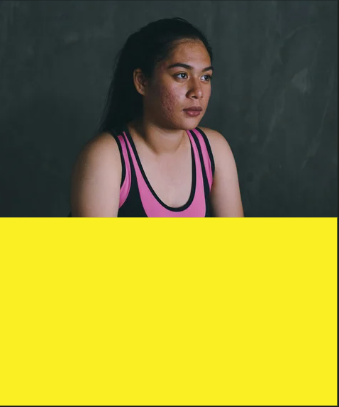
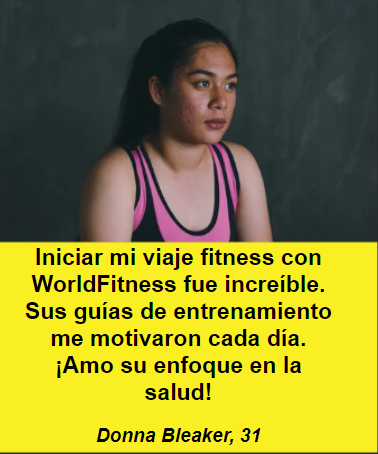
.

diff --git a/index.html b/index.html
@@ -179,14 +179,6 @@
                         <img src="/WorldFitness-Page/assets/img/persona1.PNG" alt="Imagen de Portada" class="img8">
                     </div>
                     
-                     <!-- Textos a la Izquierda -->
-                     <div class="textos-centrados3">
-                        <!-- Titulos -->
-                        <h2 class="pi3">Iniciar mi viaje fitness con WorldFitness fue increíble. Sus guías de entrenamiento me motivaron cada día. ¡Amo su enfoque en la salud!</h2>
-
-                        <h3 class="aut">Donna Bleaker, 31</h3>
-                    
-                    </div>
                    
                     
                     <!-- Imágenes Superpuestas a la Derecha -->
@@ -194,15 +186,6 @@
                         
                         <!-- Imagen 2 -->
                         <img src="/WorldFitness-Page/assets/img/persona2.PNG" alt="Imagen de Portada" class="img9">
-                    </div>
-    
-                     <!-- Textos a la Izquierda -->
-                     <div class="textos-centrados4">
-                        <!-- Titulos -->
-                        <h2 class="pi3">WorldFitness cambió mi perspectiva sobre la alimentación. Sus guías me enseñaron a disfrutar de la comida y mantenerme saludable. ¡Gracias por este cambio positivo!</h2>
-
-                        <h3 class="aut">Lauren Cross, 28</h3>
-                    
                     </div>
 
                     
@@ -212,19 +195,10 @@
                         <!-- Imagen 2 -->
                         <img src="/WorldFitness-Page/assets/img/persona3.PNG" alt="Imagen de Portada" class="img10">
                     </div>
-                    
-                    <!-- Textos a la Izquierda -->
-                    <div class="textos-centrados5">
-                        <!-- Titulos -->
-                        <h2 class="pi3">Soy un apasionado del fitness y WorldFitness ha elevado mi entrenamiento a un nuevo nivel. Sus recursos y tienda son imprescindibles. ¡Una experiencia excepcional!</h2>
-
-                        <h3 class="aut">Thomas Xue, 24</h3>
-                    
-                    </div>
+                
                     
     
                 </div>
-
 
 
           <div class="contenedor5">

diff --git a/assets/css/styles.css b/assets/css/styles.css
@@ -287,47 +287,17 @@ height: 150%;
     display: block;
     position: absolute;
     text-align: center;
-    top: 12%;
+    top: 15%;
     left: 50%;
     transform: translate(-50%, -50%); 
 }
 
 
-
-.textos-centrados3 {
-    display: block;
-    position: absolute;
-    text-align: justify;
-    margin-right: 55%;
-    top: 63%;
-    left: 25%;
-    transform: translate(-50%, -50%); 
-}
-
-.textos-centrados4 {
-    display: block;
-    position: absolute;
-    text-align: justify;
-    margin-right: 25%;
-    top: 73%;
-    left: 50%;
-    transform: translate(-50%, -50%); 
-}
-
-.textos-centrados5 {
-    display: block;
-    position: absolute;
-    text-align: justify;
-    margin-right: 1%;
-    top: 83%;
-    left: 75%;
-    transform: translate(-50%, -50%); 
-}
 
 .ti3 {
     color: rgb(255, 255, 0);
     font-family: 'Anton', sans-serif;
-    font-size: 3em;
+    font-size: 4.5em;
     font-style: italic;
     text-align: center;
 }
@@ -335,9 +305,8 @@ height: 150%;
 .pi3 {
     color: rgb(0, 0, 0);
     text-align: center;
-    margin-left: 20%;
-    margin-right: 20%;
-    font-size: 1.3em;
+    margin-left: 10%;
+    font-size: 1.8em;
     font-family: 'Anton', sans-serif;
 }
 
@@ -345,7 +314,7 @@ height: 150%;
     color: rgb(0, 0, 0);
     text-align: center;
     margin-left: 10%;
-    font-size: 1.4em;
+    font-size: 1.5em;
     font-style: italic;
     font-family: 'Anton', sans-serif;
 }
@@ -375,22 +344,22 @@ height: 150%;
 }
 
 .img8 {
-width: 120%;
-height: 120%;
+width: 135%;
+height: 135%;
 
 
 }
 
 .img9 {
-    width: 120%;
-    height: 120%;
+    width: 135%;
+    height: 135%;
     
     
 }
 
 .img10 {
-    width: 120%;
-    height: 120%;
+    width: 135%;
+    height: 135%;
     
     
 }
